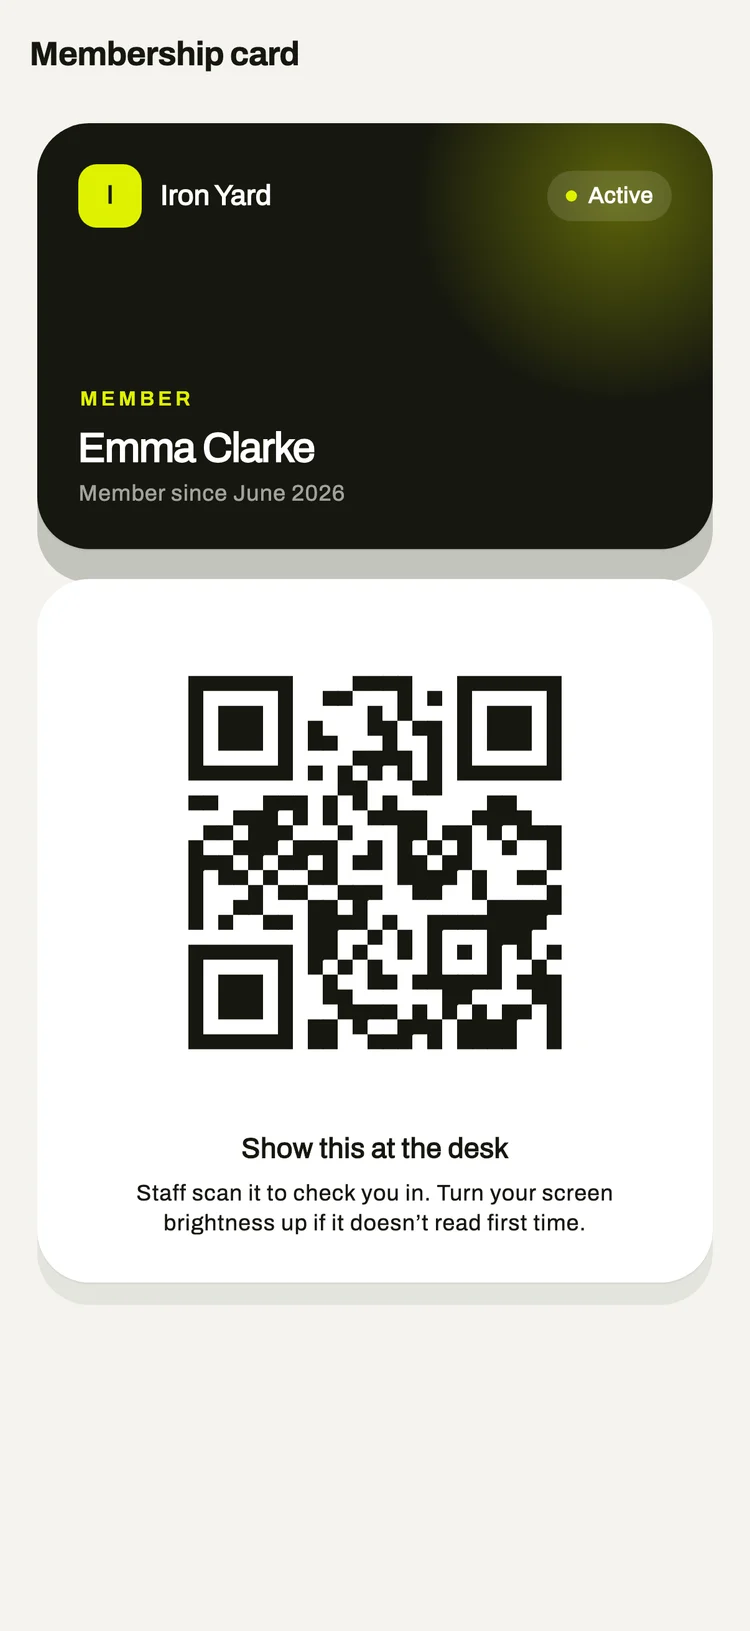
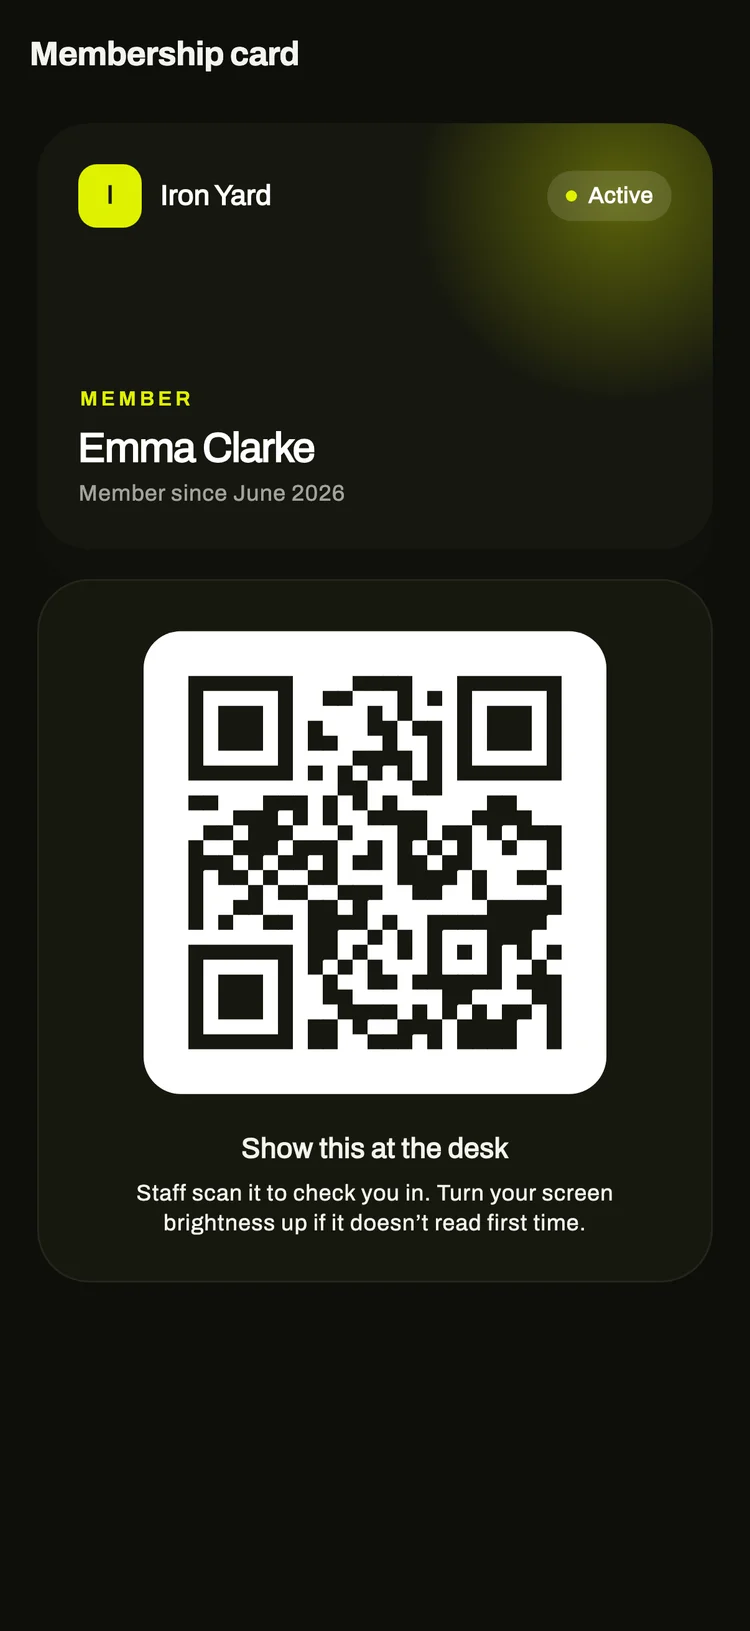
Dark only, with dark screenshots of the console and the app
The site uses the app's dark theme tokens on every visitor's screen, not
only on systems set to dark. Screenshots of the web console and the app
are re-captured in their dark themes.

diff --git a/app/globals.css b/app/globals.css
@@ -2,7 +2,7 @@
 
 /* m4gym.com uses the product's own "Studio" design system (m4gym-web
    docs/DESIGN_SYSTEM.md): the same tokens, buttons, cards and badges as the
-   app, set at marketing scale. Sentence case everywhere; Archivo's condensed
+   app's dark theme, set at marketing scale. Sentence case everywhere; Archivo's condensed
    cut for big headlines; lime is a fill on light and text only on ink. */
 
 @theme inline {
@@ -10,93 +10,54 @@
   --breakpoint-xs: 30rem;
 }
 
+/* Dark only, matching the app's dark theme. */
 :root {
   --lime: #dff200;
-  --lime-deep: #c9dc00;
-  --lime-wash: #f3f6d9;
+  --lime-deep: #b9cc1f;
+  --lime-wash: #262b12;
   --ink: #16170f;
 
-  --ground: #f4f3ee;
-  --surface: #ffffff;
-  --surface-soft: #f8f8f4;
-  --surface-raised: #f1f1eb;
-  --surface-strong: #e9e9e2;
-  --border-solid: #e7e6df;
-  --border-subtle: #efeee8;
-  --border-hover: #d3d2c9;
-  /* Hairlines drawn straight on the ground, a step stronger than on a sheet. */
-  --rule: #dddcd3;
-  --text-primary: #16170f;
-  --text-secondary: #4a4c42;
-  --text-muted: #6e7064;
-  --text-faint: #9a9c90;
+  --ground: #0e0f0b;
+  --surface: #17180f;
+  --surface-soft: #1e2016;
+  --surface-raised: #25281c;
+  --surface-strong: #2f3226;
+  --border-solid: #2c2f23;
+  --border-subtle: #23261b;
+  --border-hover: #43463a;
+  /* Hairlines drawn straight on the ground. */
+  --rule: #2c2f23;
+  --text-primary: #f2f3ec;
+  --text-secondary: #b0b2a7;
+  --text-muted: #92948a;
+  --text-faint: #75776c;
 
-  --primary-bg: #16170f;
-  --primary-fg: #dff200;
-  --primary-hover: #26281b;
-  --emphasis: #16170f;
+  --primary-bg: #dff200;
+  --primary-fg: #16170f;
+  --primary-hover: #eaff3d;
+  --emphasis: #dff200;
 
-  --success: #1f7a3a;
-  --success-soft: #e6f2e6;
-  --warning: #8f5f00;
-  --warning-soft: #f8efd6;
-  --danger: #c2410c;
-  --danger-soft: #fbe9df;
+  --success: #7bc47f;
+  --success-soft: #1a2e1c;
+  --warning: #e0b34a;
+  --warning-soft: #2c2410;
+  --danger: #ff8a68;
+  --danger-soft: #331c14;
 
   --radius-card: 22px;
   --radius-sheet: 28px;
   --btnr: 12px;
 
-  --shadow-sheet: 0 1px 2px rgb(22 23 15 / 0.05), 0 20px 50px rgb(22 23 15 / 0.07);
-  --shadow-pop: 0 1px 2px rgb(22 23 15 / 0.06), 0 12px 32px rgb(22 23 15 / 0.12);
-  --shadow-dialog: 0 2px 4px rgb(22 23 15 / 0.06), 0 30px 70px rgb(22 23 15 / 0.2);
-  --shadow-ink: 0 8px 20px rgb(22 23 15 / 0.2);
-  --shadow-device: 0 2px 4px rgb(22 23 15 / 0.08), 0 30px 70px rgb(22 23 15 / 0.22);
+  --shadow-sheet: 0 0 0 1px rgb(255 255 255 / 0.04), 0 20px 50px rgb(0 0 0 / 0.45);
+  --shadow-pop: 0 0 0 1px rgb(255 255 255 / 0.06), 0 16px 40px rgb(0 0 0 / 0.55);
+  --shadow-dialog: 0 0 0 1px rgb(255 255 255 / 0.06), 0 30px 70px rgb(0 0 0 / 0.6);
+  --shadow-ink: 0 8px 24px rgb(223 242 0 / 0.12);
+  --shadow-device: 0 0 0 1px rgb(255 255 255 / 0.08), 0 30px 70px rgb(0 0 0 / 0.6);
 
   --ease-out: cubic-bezier(0.22, 1, 0.36, 1);
   --ease-spring: cubic-bezier(0.34, 1.56, 0.64, 1);
 
-  color-scheme: light;
-}
-
-@media (prefers-color-scheme: dark) {
-  :root {
-    --lime-deep: #b9cc1f;
-    --lime-wash: #262b12;
-    --ground: #0e0f0b;
-    --surface: #17180f;
-    --surface-soft: #1e2016;
-    --surface-raised: #25281c;
-    --surface-strong: #2f3226;
-    --border-solid: #2c2f23;
-    --border-subtle: #23261b;
-    --border-hover: #43463a;
-    --rule: #2c2f23;
-    --text-primary: #f2f3ec;
-    --text-secondary: #b0b2a7;
-    --text-muted: #92948a;
-    --text-faint: #75776c;
-
-    --primary-bg: #dff200;
-    --primary-fg: #16170f;
-    --primary-hover: #eaff3d;
-    --emphasis: #dff200;
-
-    --success: #7bc47f;
-    --success-soft: #1a2e1c;
-    --warning: #e0b34a;
-    --warning-soft: #2c2410;
-    --danger: #ff8a68;
-    --danger-soft: #331c14;
-
-    --shadow-sheet: 0 0 0 1px rgb(255 255 255 / 0.04), 0 20px 50px rgb(0 0 0 / 0.45);
-    --shadow-pop: 0 0 0 1px rgb(255 255 255 / 0.06), 0 16px 40px rgb(0 0 0 / 0.55);
-    --shadow-dialog: 0 0 0 1px rgb(255 255 255 / 0.06), 0 30px 70px rgb(0 0 0 / 0.6);
-    --shadow-ink: 0 8px 24px rgb(223 242 0 / 0.12);
-    --shadow-device: 0 0 0 1px rgb(255 255 255 / 0.06), 0 30px 70px rgb(0 0 0 / 0.6);
-
-    color-scheme: dark;
-  }
+  color-scheme: dark;
 }
 
 @layer base {

diff --git a/app/(site)/contact/page.tsx b/app/(site)/contact/page.tsx
@@ -50,7 +50,7 @@ export default function ContactPage() {
                 <span className="col-start-1 row-start-2 leading-relaxed text-[var(--text-secondary)] md:col-start-auto md:row-start-auto">
                   {topic.text}
                 </span>
-                <span className="col-start-2 row-span-2 row-start-1 flex h-10 w-10 items-center justify-center rounded-full bg-[var(--surface-raised)] transition-colors group-hover:bg-[var(--ink)] group-hover:text-[var(--lime)] md:col-start-auto md:row-span-1 md:row-start-auto">
+                <span className="col-start-2 row-span-2 row-start-1 flex h-10 w-10 items-center justify-center rounded-full bg-[var(--surface-raised)] transition-colors group-hover:bg-[var(--lime)] group-hover:text-[var(--ink)] md:col-start-auto md:row-span-1 md:row-start-auto">
                   <ArrowUpRight className="h-5 w-5 transition-transform duration-300 group-hover:rotate-45" strokeWidth={2} aria-hidden="true" />
                 </span>
               </>

diff --git a/app/components/Blocks.tsx b/app/components/Blocks.tsx
@@ -73,7 +73,7 @@ export function FaqList({ items }: { items: FaqItem[] }) {
             <span className="flex-1 text-[17px] font-bold leading-snug">{item.q}</span>
             <span
               aria-hidden="true"
-              className="relative flex h-8 w-8 shrink-0 items-center justify-center rounded-full bg-[var(--surface-raised)] transition-colors group-open:bg-[var(--ink)] group-open:text-[var(--lime)]"
+              className="relative flex h-8 w-8 shrink-0 items-center justify-center rounded-full bg-[var(--surface-raised)] transition-colors group-open:bg-[var(--lime)] group-open:text-[var(--ink)]"
             >
               <span className="absolute h-[2px] w-3 rounded-full bg-current" />
               <span className="absolute h-3 w-[2px] rounded-full bg-current transition-transform duration-300 group-open:scale-y-0" />

diff --git a/app/(site)/page.tsx b/app/(site)/page.tsx
@@ -154,7 +154,7 @@ export default async function Home() {
 
       {/* Personal coaching */}
       <section className="container-site pb-16 md:pb-24">
-        <div className="grid items-center gap-10 overflow-hidden rounded-[var(--radius-sheet)] bg-[var(--ink)] px-6 pt-10 text-white md:px-12 md:pt-12 lg:grid-cols-[minmax(0,1.2fr)_minmax(0,0.8fr)] dark:bg-[var(--surface)]">
+        <div className="grid items-center gap-10 overflow-hidden rounded-[var(--radius-sheet)] bg-[var(--surface-raised)] px-6 pt-10 text-white md:px-12 md:pt-12 lg:grid-cols-[minmax(0,1.2fr)_minmax(0,0.8fr)]">
           <div className="pb-10 md:pb-12">
             <h2 className="headline max-w-[18ch] text-[clamp(2rem,4vw,3.25rem)]">Personal coaching for people without a gym</h2>
             <p className="mt-5 max-w-xl text-lg leading-relaxed text-white/70">

diff --git a/app/components/Frames.tsx b/app/components/Frames.tsx
@@ -18,7 +18,7 @@ export function BrowserFrame({ src, alt, priority }: { src: string; alt: string;
 /** A real screenshot of the app inside a phone outline. */
 export function PhoneFrame({ src, alt, className = '', priority }: { src: string; alt: string; className?: string; priority?: boolean }) {
   return (
-    <div className={`rounded-[40px] bg-[var(--ink)] p-[6px] shadow-[var(--shadow-device)] dark:ring-1 dark:ring-white/10 ${className}`}>
+    <div className={`rounded-[40px] bg-[var(--ink)] p-[6px] shadow-[var(--shadow-device)] ring-1 ring-white/10 ${className}`}>
       <div className="overflow-hidden rounded-[34px] bg-[var(--ground)]">
         <Image src={src} alt={alt} width={750} height={1631} priority={priority} sizes="(min-width: 1024px) 18rem, 60vw" className="block h-auto w-full" />
       </div>

diff --git a/app/components/Logo.tsx b/app/components/Logo.tsx
@@ -1,13 +1,11 @@
+import Image from 'next/image'
 import Link from 'next/link'
 
-/** The wordmark, with the lettering that reads on the current theme. */
+/** The wordmark, in its version for dark backgrounds. */
 export function Logo({ className = 'h-8' }: { className?: string }) {
   return (
     <Link href="/" aria-label="M4GYM home" className="inline-flex shrink-0 items-center">
-      <picture>
-        <source srcSet="/m4gym-logo-dark.svg" media="(prefers-color-scheme: dark)" />
-        <img src="/m4gym-logo-light.svg" alt="M4GYM" className={`${className} w-auto`} />
-      </picture>
+      <Image src="/m4gym-logo-dark.svg" alt="M4GYM" width={132} height={40} priority className={`${className} w-auto`} />
     </Link>
   )
 }

diff --git a/app/components/RoleTabs.tsx b/app/components/RoleTabs.tsx
@@ -66,7 +66,7 @@ export function RoleTabs() {
               aria-controls={`role-panel-${item.id}`}
               onClick={() => setActiveId(item.id)}
               className={`rounded-[13px] px-3 py-2.5 text-left transition-[background-color,box-shadow,color] duration-200 sm:min-w-44 sm:px-5 ${
-                selected ? 'bg-[var(--surface)] shadow-[0_1px_3px_rgb(22_23_15/0.12)]' : 'text-[var(--text-muted)] hover:text-[var(--text-primary)]'
+                selected ? 'bg-[var(--surface-strong)] shadow-[0_1px_3px_rgb(0_0_0/0.5)]' : 'text-[var(--text-muted)] hover:text-[var(--text-primary)]'
               }`}
             >
               <span className="block text-[15px] font-bold sm:text-[17px]">{item.who}</span>

diff --git a/app/(site)/pricing/page.tsx b/app/(site)/pricing/page.tsx
@@ -115,7 +115,7 @@ export default async function PricingPage() {
       </section>
 
       <section className="container-site pb-14 md:pb-20">
-        <div className="flex flex-col gap-6 rounded-[var(--radius-sheet)] bg-[var(--ink)] p-8 text-white md:flex-row md:items-center md:justify-between md:p-12 dark:bg-[var(--surface)]">
+        <div className="flex flex-col gap-6 rounded-[var(--radius-sheet)] bg-[var(--surface-raised)] p-8 text-white md:flex-row md:items-center md:justify-between md:p-12">
           <div className="max-w-2xl">
             <h2 className="headline text-[clamp(1.75rem,3vw,2.5rem)]">Personal coaching</h2>
             <p className="mt-3 text-lg text-white/70">

diff --git a/app/components/DayTimeline.tsx b/app/components/DayTimeline.tsx
@@ -59,7 +59,7 @@ export function DayTimeline({ events }: { events: DayEvent[] }) {
                 <span
                   key={event.time}
                   className={`absolute top-1/2 h-3 w-3 -translate-x-1/2 -translate-y-1/2 rounded-full ring-2 ring-[var(--ground)] transition-colors duration-300 ${
-                    index <= active ? 'bg-[var(--ink)] dark:bg-[var(--lime)]' : 'bg-[var(--border-hover)]'
+                    index <= active ? 'bg-[var(--lime)]' : 'bg-[var(--border-hover)]'
                   }`}
                   style={{ left: `${dayProgress(event.time) * 100}%` }}
                   aria-hidden="true"

diff --git a/app/components/PlanCard.tsx b/app/components/PlanCard.tsx
@@ -23,7 +23,7 @@ export function PlanCard({ plan }: { plan: PublicPlan }) {
   ]
   const dark = plan.highlight
   return (
-    <article className={`relative flex flex-col rounded-[var(--radius-sheet)] p-7 md:p-8 ${dark ? 'bg-[var(--ink)] text-white dark:bg-[var(--surface-raised)]' : 'sheet'}`}>
+    <article className={`relative flex flex-col rounded-[var(--radius-sheet)] p-7 md:p-8 ${dark ? 'bg-[var(--surface-raised)] text-white ring-1 ring-[var(--lime)]/40' : 'sheet'}`}>
       <div className="flex items-baseline justify-between gap-3">
         {dark && <span className="badge badge-lime">Recommended</span>}
       </div>

diff --git a/app/components/StoreButtons.tsx b/app/components/StoreButtons.tsx
@@ -27,7 +27,7 @@ function StoreButton({ href, small, big, icon }: { href: string | null; small: s
     </>
   )
   const className =
-    'inline-flex h-13 min-w-40 items-center gap-2.5 rounded-[6px] bg-[var(--ink)] px-4 text-white ring-1 ring-white/15 transition-transform duration-200 active:scale-[0.97]'
+    'inline-flex h-13 min-w-40 items-center gap-2.5 rounded-[12px] bg-black px-4 text-white ring-1 ring-white/20 transition-transform duration-200 active:scale-[0.97]'
   return href ? (
     <a href={href} className={className} target="_blank" rel="noreferrer">
       {body}

diff --git a/app/components/Footer.tsx b/app/components/Footer.tsx
@@ -40,7 +40,7 @@ const COLUMNS = [
 
 export function Footer() {
   return (
-    <footer className="bg-[var(--ink)] text-white">
+    <footer className="border-t border-[var(--border-subtle)] bg-[var(--surface)] text-white">
       <div className="container-site grid gap-10 pt-16 pb-12 sm:grid-cols-2 lg:grid-cols-[1.6fr_repeat(4,1fr)]">
         <div className="max-w-xs sm:col-span-2 lg:col-span-1">
           <p className="text-sm font-bold text-[var(--lime)]">M4GYM</p>
